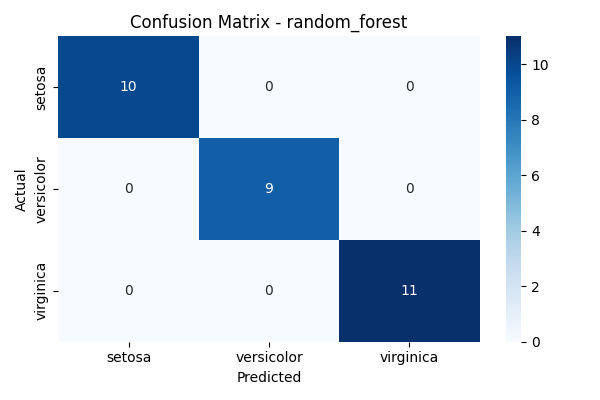
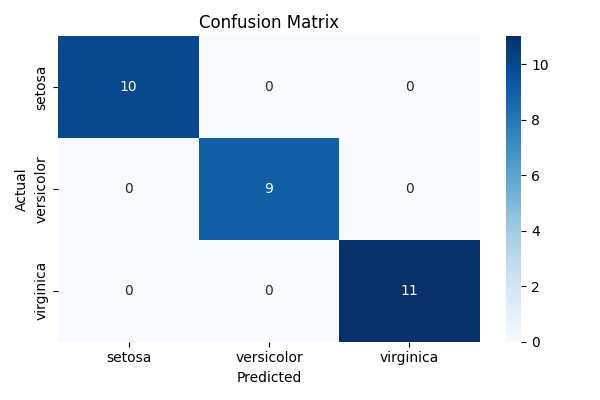
Updated train.py with utils methods

Changed region(s): [[0.21, 0.03, 0.69, 0.09]]

diff --git a/src/train.py b/src/train.py
@@ -8,6 +8,7 @@ from sklearn import datasets
 from sklearn.model_selection import train_test_split
 from model import get_model, evaluate
 from data import load_data
+from utils import save_metrics, plot_confusion_matrix
 
 
 def main(model_name: str, test_size: float = 0.2, random_state: int = 42):
@@ -32,21 +33,10 @@ def main(model_name: str, test_size: float = 0.2, random_state: int = 42):
 
     # Save metrics
     metrics_path = os.path.join("results", "metrics.json")
-    with open(metrics_path, "w") as f:
-        json.dump({"model": model_name, "accuracy": acc}, f, indent=4)
+    save_metrics({"model": model_name, "accuracy": acc}, metrics_path)
 
     # Save confusion matrix as image
-    plt.figure(figsize=(6, 4))
-    sns.heatmap(
-        cm, annot=True, fmt="d", cmap="Blues",
-        xticklabels=class_names, yticklabels=class_names
-    )
-    plt.xlabel("Predicted")
-    plt.ylabel("Actual")
-    plt.title(f"Confusion Matrix - {model_name}")
-    plt.tight_layout()
-    plt.savefig("results/confusion_matrix.png")
-    plt.close()
+    plot_confusion_matrix(cm, class_names, "results/confusion_matrix.png")
 
     print(f"Results saved in /results/")
 

diff --git a/README.md b/README.md
@@ -7,7 +7,7 @@
 
 A simple **machine learning project** that classifies iris flowers into three species (*setosa, versicolor, virginica*) based on their sepal and petal dimensions.  
 
-This project is a great starting point for ML, showcasing:
+This project showcases:
 - Data exploration and visualization  
 - Training classical ML algorithms (Logistic Regression, Decision Tree, Random Forest, SVM)  
 - Evaluation with metrics and confusion matrix  
@@ -86,8 +86,9 @@ This will output metrics and save results (confusion matrix, accuracy) under /re
 
 ## ✅ Tests
 Run simple unit tests to validate dataset loading & preprocessing:
-
+```bash
 pytest tests/
+```
 
 ## 📈 Future Improvements
 Add hyperparameter tuning with GridSearchCV
